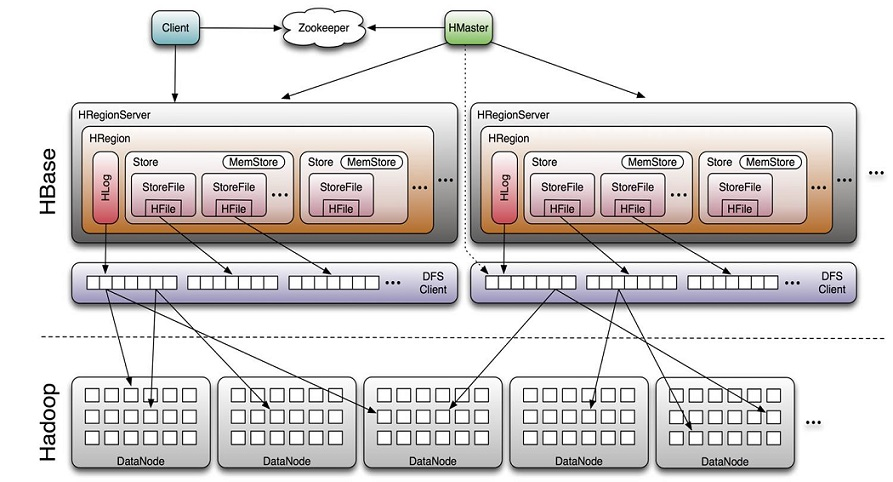
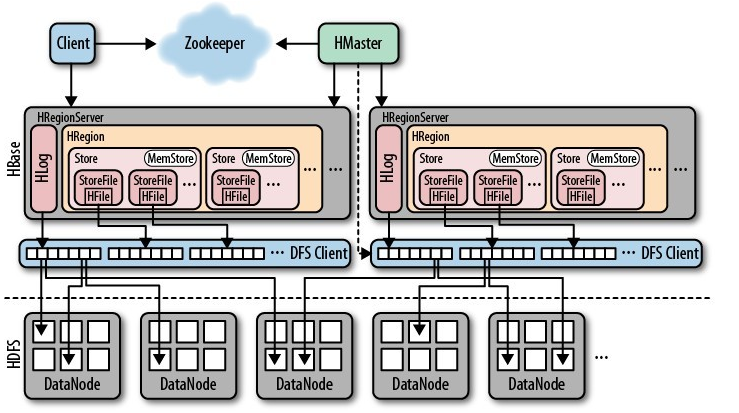
更正HLog、HRegion的对应关系；细化键值存储图

diff --git a/9、Elasticsearch、HBase/5 HBase.md b/9、Elasticsearch、HBase/5 HBase.md
@@ -124,7 +124,7 @@ RDBMS是以行进行存储了，一行中的字段（列）是固定的，无论
 > **Rowkey**的底层也是B+树。
 
 
-![](../images/9/hbase-rowkey.jpg)
+![](../images/9/hbase-key-value.svg)
 
 ### 行键
 
